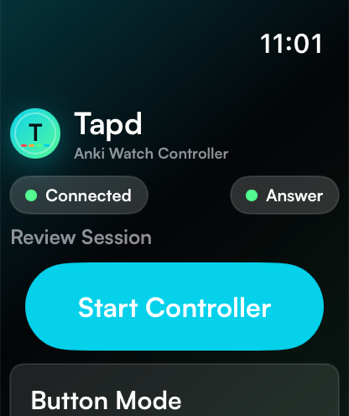
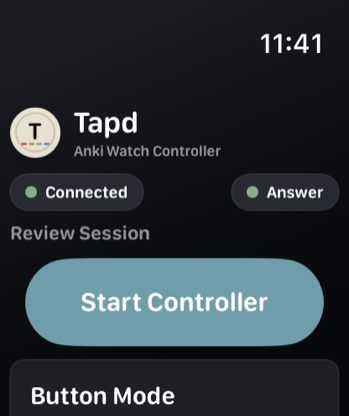
Refresh Tapd site visuals

diff --git a/styles.css b/styles.css
@@ -1,16 +1,17 @@
 :root {
   color-scheme: dark;
-  --bg: #05070a;
-  --panel: #111820;
-  --panel-strong: #18232b;
-  --ink: #f5fbff;
-  --muted: #a8b8bd;
-  --line: rgba(255, 255, 255, 0.13);
-  --cyan: #05d1eb;
-  --mint: #52fa91;
-  --amber: #ffad38;
-  --red: #ff4a54;
-  --blue: #4aa3ff;
+  --bg: #0c0d10;
+  --panel: #1e2026;
+  --panel-strong: #282a31;
+  --paper: #ece4d2;
+  --ink: #f4efe5;
+  --muted: #aaa79e;
+  --line: rgba(255, 255, 255, 0.09);
+  --cyan: #6f9eaa;
+  --mint: #86b08a;
+  --amber: #c78e4f;
+  --red: #c25c56;
+  --blue: #6b88b0;
   --radius: 8px;
 }
 
@@ -24,7 +25,7 @@ html {
 
 body {
   margin: 0;
-  background: linear-gradient(180deg, #05070a 0%, #081015 48%, #05070a 100%);
+  background: linear-gradient(180deg, #15171d 0%, var(--bg) 42%, #08090b 100%);
   color: var(--ink);
   font-family: Inter, ui-sans-serif, system-ui, -apple-system, BlinkMacSystemFont, "Segoe UI", sans-serif;
   line-height: 1.5;
@@ -43,7 +44,7 @@ a {
   justify-content: space-between;
   gap: 1rem;
   padding: 1rem clamp(1rem, 4vw, 3rem);
-  background: rgba(5, 7, 10, 0.86);
+  background: rgba(12, 13, 16, 0.86);
   border-bottom: 1px solid var(--line);
   backdrop-filter: blur(16px);
 }
@@ -97,7 +98,7 @@ footer a:hover {
 
 .eyebrow {
   margin: 0 0 0.8rem;
-  color: var(--mint);
+  color: var(--paper);
   font-size: 0.78rem;
   font-weight: 800;
   letter-spacing: 0.12em;
@@ -166,13 +167,13 @@ h3 {
 }
 
 .button.primary {
-  background: linear-gradient(135deg, var(--cyan), var(--mint));
-  color: #041014;
+  background: var(--paper);
+  color: #15171d;
 }
 
 .button.secondary {
   border: 1px solid var(--line);
-  background: rgba(255, 255, 255, 0.07);
+  background: rgba(255, 255, 255, 0.055);
 }
 
 .device-stage {
@@ -187,9 +188,9 @@ h3 {
 .watch-preview {
   height: auto;
   display: block;
-  border: 1px solid rgba(255, 255, 255, 0.13);
-  background: #05070a;
-  box-shadow: 0 2rem 5rem rgba(0, 0, 0, 0.5);
+  border: 1px solid var(--line);
+  background: #0c0d10;
+  box-shadow: 0 2rem 5rem rgba(0, 0, 0, 0.36);
 }
 
 .phone-preview {
@@ -209,7 +210,7 @@ h3 {
   padding: 1rem;
   border: 1px solid var(--line);
   border-radius: var(--radius);
-  background: rgba(255, 255, 255, 0.06);
+  background: rgba(255, 255, 255, 0.045);
 }
 
 .summary {
@@ -270,8 +271,8 @@ h3 {
   place-items: center;
   margin-bottom: 1rem;
   border-radius: 999px;
-  background: linear-gradient(135deg, var(--cyan), var(--mint));
-  color: #041014;
+  background: var(--paper);
+  color: #15171d;
   font-weight: 900;
 }
 